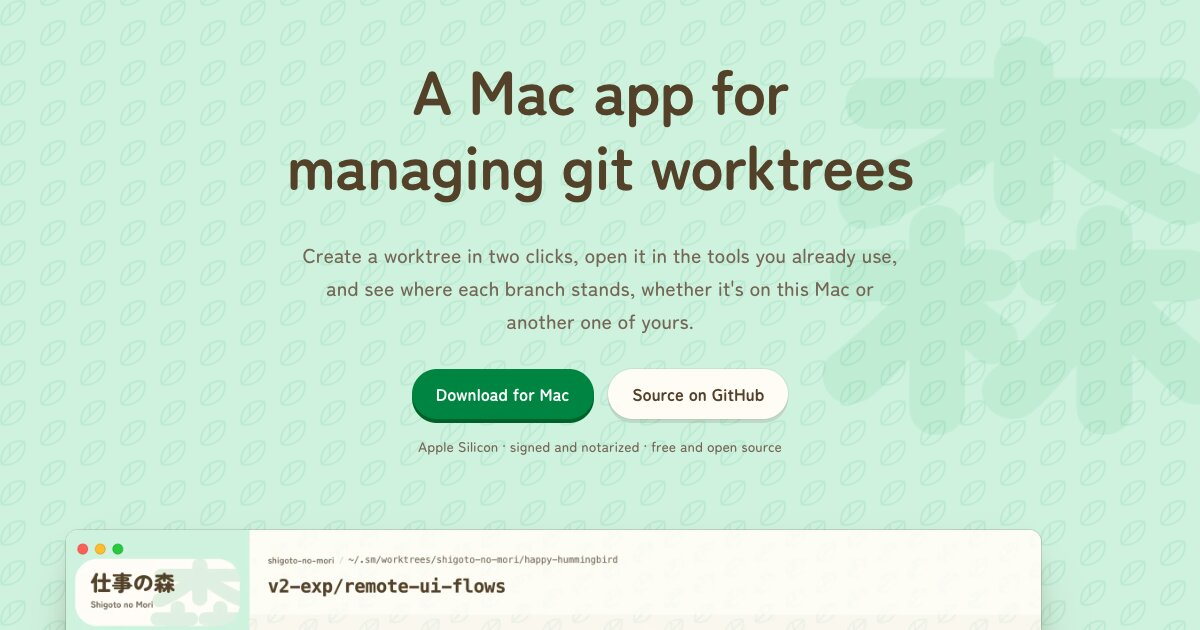
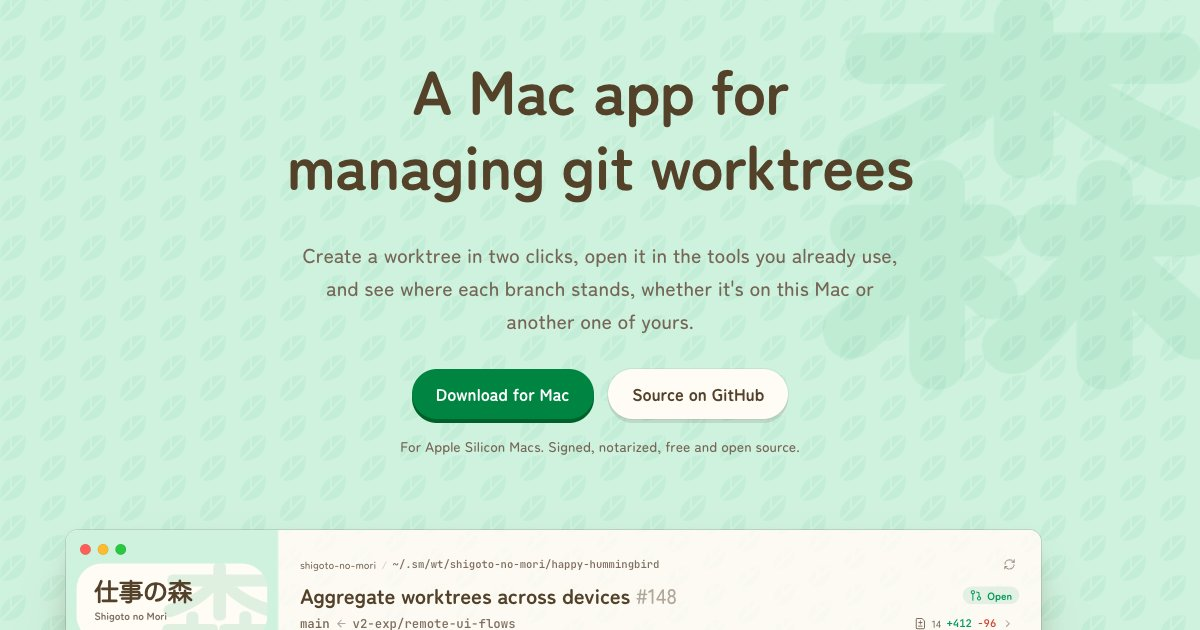
Pose the hero like the fixture world, keep the stack a window, shoot og.jpg in CI

diff --git a/packages/ui/src/scenes/worktreePage.tsx b/packages/ui/src/scenes/worktreePage.tsx
@@ -40,12 +40,9 @@ import {
 import { WorktreeHeaderView } from "../views/worktreeDetail/WorktreeHeaderView.tsx";
 import { WorktreeLocationView } from "../views/worktreeDetail/WorktreeLocationView.tsx";
 import { WorktreeOptionsView } from "../views/worktreeDetail/WorktreeOptionsView.tsx";
-import type {
-  LauncherEntry,
-  PullRequest,
-  Worktree,
-} from "@shigomori/contracts/schemas/index";
-import { LOCAL_DEVICE_ID } from "../fixtures/fixtures.ts";
+import type { PullRequest, Worktree } from "@shigomori/contracts/schemas/index";
+import { fakeStashes, LOCAL_DEVICE_ID } from "../fixtures/fixtures.ts";
+import { FAKE_LAUNCHERS } from "../fixtures/settingsFixtures.ts";
 import { unposedPullRequests } from "../fixtures/pullRequestFixtures.ts";
 import { SceneWindowFrame } from "./frame.tsx";
 import { pullRequestLead } from "./pullRequests.tsx";
@@ -70,14 +67,6 @@ const DESCRIPTION = `Lists every device's worktrees in one sidebar, each badged 
 
 - The daemons' lists merge by repo identity.
 - A peer that drops off keeps its last rows, faded.`;
-
-const TOOLS: LauncherEntry[] = [
-  { kind: "detected", id: "vscode", label: "VS Code", available: true },
-  { kind: "detected", id: "terminal", label: "Terminal", available: true },
-  { kind: "detected", id: "ghostty", label: "Ghostty", available: true },
-  { kind: "web", id: "github", label: "GitHub" },
-  { kind: "custom", id: "lazygit", label: "lazygit" },
-];
 
 function branchTitle(worktree: Worktree, subtitle: boolean) {
   return (
@@ -157,7 +146,9 @@ function footer(state: WorktreeFooterState, worktree = HUMMINGBIRD) {
   );
 }
 
-// happy-hummingbird's page: its PR open, named by the PR, launching.
+// happy-hummingbird's page: its PR open, named by the PR, launching, as
+// the fake host serves it (the marketing site's hero, whose live window
+// opens on this page).
 export function WorktreePageScene() {
   return (
     <SceneWindowFrame
@@ -234,7 +225,7 @@ export function WorktreePageScene() {
           <LaunchSectionView
             tools={
               <LauncherRowView
-                entries={TOOLS}
+                entries={FAKE_LAUNCHERS}
                 onLaunch={noop}
                 onChooseTools={noop}
                 onConfigure={noop}
@@ -248,7 +239,7 @@ export function WorktreePageScene() {
                     key={name}
                     name={name}
                     command={`pnpm ${name}`}
-                    busy={name === "dev"}
+                    busy={false}
                     disabled={false}
                     disabledReason={undefined}
                     onClick={noop}
@@ -259,7 +250,7 @@ export function WorktreePageScene() {
             }
           />
         }
-        git={gitSection(HUMMINGBIRD)}
+        git={gitSection(HUMMINGBIRD, fakeStashes[HUMMINGBIRD.id])}
         ports={portsSection()}
         scripts={scriptsSection()}
         footer={footer({

diff --git a/app/lab/fake-host/bridge.ts b/app/lab/fake-host/bridge.ts
@@ -99,6 +99,7 @@ import {
   fakePoolPorts,
   fakeRemoteUrls,
   fakeRunningScripts,
+  fakeStashes,
   addLiveEdgeRuns,
   repoDescriptionFor,
   type FakeWorktree,
@@ -107,6 +108,7 @@ import {
 import { endpointState } from "@shigomori/ui/fixtures/mirrorFixtures.ts";
 import {
   FAKE_DETECTED,
+  FAKE_LAUNCHERS,
   fakeAgentHarnesses,
 } from "@shigomori/ui/fixtures/settingsFixtures.ts";
 import { villagerHandlersFor } from "./villagerData";
@@ -673,17 +675,7 @@ function hostHandlersFor(
         merges: [],
       };
     },
-    "worktrees:stashes": ({ worktreeId }) =>
-      worktreeId === "a10000000002"
-        ? [
-            {
-              hash: "5ca1ab1",
-              message: "Badge merged projects with their devices",
-              named: false,
-              date: new Date(Date.now() - 3 * 3600_000).toISOString(),
-            },
-          ]
-        : [],
+    "worktrees:stashes": ({ worktreeId }) => fakeStashes[worktreeId] ?? [],
     "worktrees:stashDiff": () => FAKE_DIFF,
     "worktrees:operation": () => ({
       operation: null,
@@ -771,11 +763,7 @@ function hostHandlersFor(
     },
     "launchers:detect": () => [...FAKE_DETECTED],
     "launchers:forProject": () => ({
-      entries: [
-        ...FAKE_DETECTED.filter((d) => d.available),
-        { kind: "custom", id: "custom:deploy", label: "Deploy preview" },
-        { kind: "web", id: "web:github", label: "GitHub" },
-      ],
+      entries: [...FAKE_LAUNCHERS],
       hiddenCount: 0,
     }),
     "packageScripts:list": () => ({

diff --git a/packages/ui/src/fixtures/fixtures.ts b/packages/ui/src/fixtures/fixtures.ts
@@ -10,6 +10,7 @@ import type {
   Project,
   Release,
   RunningScript,
+  StashEntry,
   Worktree,
 } from "@shigomori/contracts/schemas/index";
 
@@ -585,6 +586,18 @@ export const fakeRemoteUrls: Record<string, string> = {
   [SM_IDENTITY]: "git@github.com:sylophi/shigoto-no-mori.git",
   [PP_IDENTITY]: "git@github.com:sylophi/port-pool.git",
   [DF_IDENTITY]: "git@github.com:rin/dotfiles.git",
+};
+
+// The stashes a worktree holds: one on happy-hummingbird.
+export const fakeStashes: Record<string, StashEntry[]> = {
+  a10000000002: [
+    {
+      hash: "5ca1ab1",
+      message: "Badge merged projects with their devices",
+      named: false,
+      date: new Date(now - 3 * HOUR).toISOString(),
+    },
+  ],
 };
 
 export const forests: Record<string, DeviceForest> = {

diff --git a/packages/ui/src/fixtures/settingsFixtures.ts b/packages/ui/src/fixtures/settingsFixtures.ts
@@ -34,6 +34,14 @@ export const FAKE_DETECTED = [
   { kind: "detected", id: "app:helix", label: "Helix", available: false },
 ] as const;
 
+// A project's launch row: the tools found on the machine, a command of
+// its own and its repo on the web.
+export const FAKE_LAUNCHERS = [
+  ...FAKE_DETECTED.filter((d) => d.available),
+  { kind: "custom", id: "custom:deploy", label: "Deploy preview" },
+  { kind: "web", id: "web:github", label: "GitHub" },
+] as const;
+
 // Claude Code's hooks in, Codex's waiting on a fresh install.
 export function fakeAgentHarnesses(home: string): AgentHarnessStatus[] {
   return [

diff --git a/packages/ui/src/scenes/worktreeSections.tsx b/packages/ui/src/scenes/worktreeSections.tsx
@@ -155,12 +155,12 @@ const NAV = {
 };
 
 // The Git section of a worktree's page.
-export function gitSection(worktree: Worktree) {
+export function gitSection(worktree: Worktree, stashes = STASHES) {
   return (
     <GitSectionView
       worktree={worktree}
       files={FILES}
-      stashes={STASHES}
+      stashes={stashes}
       commits={worktree.recentCommits}
       branch={{ base: "origin/main", own: 2, more: false }}
       syncPills={

diff --git a/marketing/README.md b/marketing/README.md
@@ -1,14 +1,18 @@
 # Marketing site
 
-The site for shigomori.com, built with Astro into plain static HTML
-(no client framework). It is a package of the repo's pnpm workspace,
-like `hub/`: install from the repo root, run its scripts from here.
+The site for shigomori.com, built with Astro into static HTML. Its
+pictures of the app are the app's own: the views from `@shigomori/ui`,
+drawn over the fixture world at build time, and for the windows, the
+real app over the fixture world once they come near the screen. It is a
+package of the repo's pnpm workspace, like `hub/`: install from the
+repo root, run its scripts from here.
 
 ```sh
 pnpm install  # from the repo root
 pnpm dev      # local preview with reload
 pnpm check    # type-check the pages, components and scripts (build runs it too)
 pnpm build    # static output in dist/
+pnpm og       # shoot public/img/og.jpg from dist/ (after a build)
 ```
 
 TypeScript stays on 6.x for now: `astro check` needs its programmatic
@@ -17,6 +21,7 @@ API, which the native TypeScript 7 compiler doesn't ship yet.
 It deploys as its own Vercel project with the Root Directory set to
 `marketing`, and the install uses the workspace's lockfile at the
 repo root. `vercel.json` pins the Astro preset and holds the headers.
+The production build follows `main`.
 
 ## Layout
 
@@ -26,13 +31,19 @@ repo root. `vercel.json` pins the Astro preset and holds the headers.
 - `src/pages/robots.txt.ts` and `src/pages/sitemap.xml.ts` build those
   two files from the site URL in `astro.config.ts`.
 - `src/site.ts` holds the links more than one place uses.
-- `src/styles/global.css` is the one stylesheet.
+- `src/styles/global.css` is the page's stylesheet. Its rules stop at a
+  frame's root (`@scope`), where the app's takes over.
+- `src/components/Frame.astro` is a frame of the app (below), and
+  `src/frames/scenes.tsx` lists what the frames draw.
 - `src/scripts/`:
   - `theme.js` sets light or dark before first paint and runs the
-    toggle. It loads as a blocking script, under a hashed name.
+    toggle, on the page and on the frames that follow it. It loads as
+    a blocking script, under a hashed name.
+  - `frames.ts` turns the live frames into the app near the screen.
   - `download.ts` points the download buttons at the latest release's
     dmg.
   - `wallpaper.ts` pauses the wallpaper of bands that are off screen.
+- `scripts/og.mts` shoots the link preview image (below).
 - `public/` is served as is: the icons, the wallpapers, the link
   preview image and the font license, which need fixed URLs.
 
@@ -40,18 +51,61 @@ repo root. `vercel.json` pins the Astro preset and holds the headers.
 is its own file. That keeps the page inside the strict CSP in
 `vercel.json`, and lets everything under `/_astro/` cache for a year.
 
+## The frames
+
+A frame draws a window or a part of the app with the app's views over
+the fixture world (`@shigomori/ui`'s scenes), rendered to HTML at build
+time through Astro's React integration. It lays out at the size the
+window has in the app and is scaled to the frame in CSS, with no
+script; a frame can show a crop of it. Its root carries the theme the
+way the app's root does (the theme classes, `data-palette`,
+`data-shell`), and `theme.js` sets the page's light or dark on it before
+it paints, so the toggle switches the frames too. The Looks frames wear
+a look of their own.
+
+A frame with `live` becomes the real app on that route once the page
+has loaded and the frame comes near the screen: `frames.ts` loads the
+app and the fixture world (`app/lab/fake-host/frames.tsx`, the lab's
+fake host in-process) in chunks of their own, and mounts a window of
+the app into the frame's root, all the live frames on one client. Its
+scene is what the app shows first on that route, so the frame keeps
+its picture as it goes live. Only windows go live; parts, the phone
+(the web app needs a client of its own) and Devices (Settings holds it
+in the app) stay as drawn at build time.
+
+The build takes the app's stylesheet once, for the frames drawn at
+build time, and the app's boot takes it from the page rather than
+loading its own (`astro.config.ts`). The app's stylesheet stops at a
+frame's root (`@shigomori/ui`'s `insideTheRoot`), and the page's stops
+there too, so neither styles the other. A frame's fonts are the page's
+Zen Maru Gothic; kanji fall back to the system's, as the page's text
+does. The file icons the live windows' file lists draw are copied into
+the build under `/material-icons/`.
+
+The scenes have no project icons: the app draws a repo's icon as a
+`data:` URL, which the CSP doesn't allow, so the fixture world has none
+and every project wears the app's letter tile.
+
+## The link preview
+
+`public/img/og.jpg` is the hero as a link preview shows it, 1200 by
+630: the headline over the hero window's first hundred pixels, as the
+build draws it. `pnpm og` shoots it from the built site with the
+system's Chrome through playwright-core, as the scene comparison does.
+
+The Link preview workflow (`.github/workflows/og.yml`) builds the site
+and shoots it whenever the site, the views or the lockfile change on
+`main`, and opens a pull request when the image changed. It is shot in
+CI and committed rather than at deploy because Vercel's build has no
+browser to shoot with, and a committed image keeps the fixed URL with
+its own caching, reviewed like any other change. A runner draws text a
+little differently from a Mac, so the first run after a Mac shot opens
+one pull request of its own. Opening the pull request needs the
+repository to let Actions create them; without that, the run's summary
+links the pushed branch.
+
 ## Where the pieces come from
 
-- Screenshots in `src/assets/` are the real app, posed in the fake host
-  (the app's `lab/fake-host/README.md`). Desktop views were taken at
-  1280x800, the phone view at 390x844, and the sidebar row close-up at
-  4x. They were then cropped to twice their largest displayed width.
-  Astro makes the smaller sizes phones get. The fake host runs in a
-  browser, so macOS traffic lights were drawn into the page before each
-  window capture, where the real window puts them. The launch row is a
-  crop of the app's `assets/readme-app.png`.
-- `public/img/og.jpg` is the link preview card: the hero rendered at
-  1200x630.
 - Colors, the flat sticker shadows, and the five wallpapers (`leaf`,
   `apple`, `square`, `flower`, `triangle`, with their drift speeds)
   come from the app's doubutsu theme

diff --git a/app/lab/fake-host/README.md b/app/lab/fake-host/README.md
@@ -35,6 +35,12 @@ Some ways to use it:
   drops the socket, or makes a worktree appear behind the app's back,
   to see how a screen already open reacts.
 
+The marketing site runs the same bridge in-process for its live frames
+(`frames.tsx`): each frame is a desktop window of the app mounted into
+an element of the site's page, all of them on one bridge and one
+client, posing as the released app (no dev badge or hotkeys) and on
+the sidebar's inbox (`marketing/README.md`, "The frames").
+
 What it cannot tell you: anything below the bridge. Transfers,
 mirrors and the hub are posed, and a channel the fixtures don't
 handle answers with a stub derived from its schema, so a screen that
